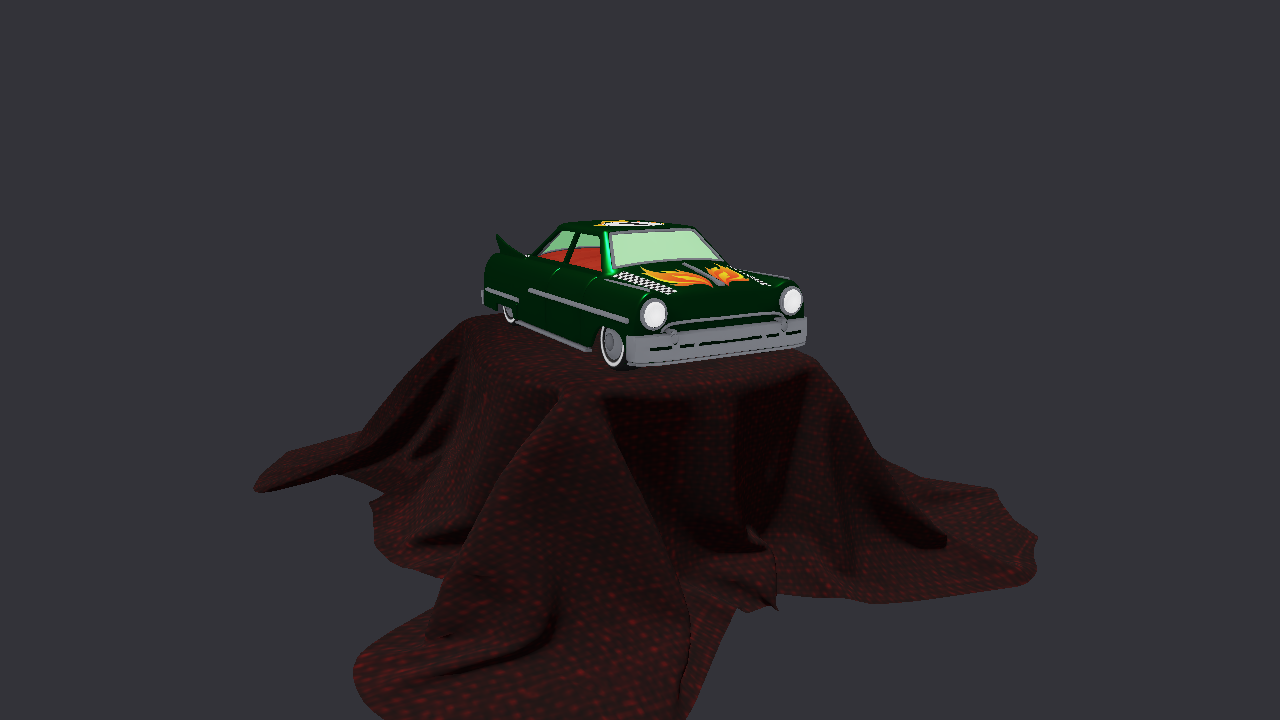
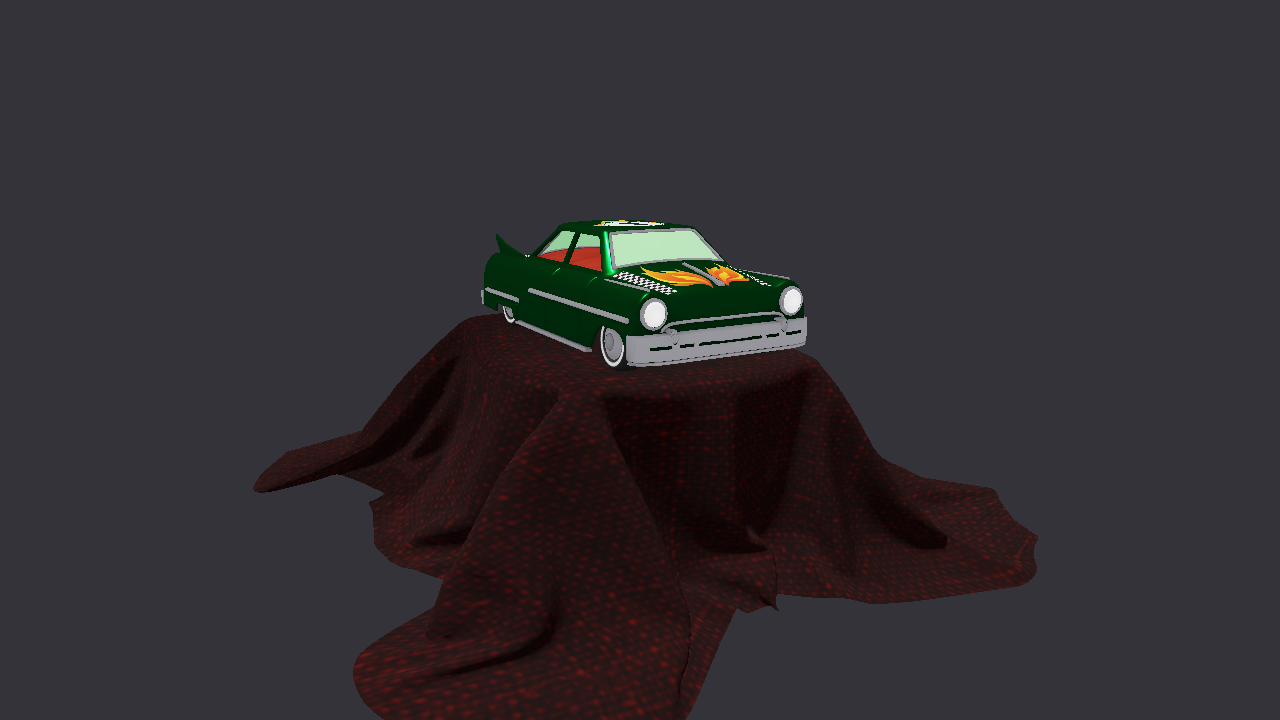
feat(render): M5d 场景环境光 + M5e 清漆层（clearcoat）
- schema：
  · `scn.Scene` 增加 `env_color/env_intensity`（默认值 = 引擎原硬编码值 → 老场景零回归）
  · `asset.PbrMaterial` 增加 `clearcoat/clearcoat_roughness`（与 KHR_materials_clearcoat 字段对齐）
  · ABI `mq_renderer_pbr_material` 表尾追加 clearcoat 两字段（92→100B，静态断言同步）
- runtime：环境光由场景驱动；材质读 clearcoat；draw uniform 128→144B
- gfx：draw BGL/uniform 扩到 144B；顺带修复 clearcoat 写入数组越界（du[32]→du[36] 漏改主循环）
- shader：Draw 增加 clearcoat；方向光逐灯叠加清漆高光（F0=0.04、独立 roughness）
- ToyCar 场景：暖灰环境光（0.33/0.33/0.36 ×2.0）+ 车漆 clearcoat=1.0/0.06，preview 更新
- 文档：AGENTS.md 环境光/清漆说明；plans/18 M5d/M5e
- 构建 0 错误；全量 CTest 81/81 通过

Changed region(s): [[0.4062, 0.3972, 0.6562, 0.5194], [0.4062, 0.3056, 0.5625, 0.3972], [0.375, 0.3972, 0.4688, 0.4278]]

diff --git a/modules/render/gfx/src/gfx.cpp b/modules/render/gfx/src/gfx.cpp
@@ -25,7 +25,7 @@ namespace maque::gfx {
 static_assert(sizeof(mq_renderer_caps) == 32, "mq_renderer_caps 应为 8×int32");
 static_assert(sizeof(mq_renderer_view3d) == 184, "mq_renderer_view3d 布局漂移（view/proj 各 64B + 后段）");
 static_assert(sizeof(mq_renderer_light) == 64, "mq_renderer_light 布局漂移");
-static_assert(sizeof(mq_renderer_pbr_material) == 92, "mq_renderer_pbr_material 布局漂移（5 贴图槽）");
+static_assert(sizeof(mq_renderer_pbr_material) == 100, "mq_renderer_pbr_material 布局漂移（5 贴图槽 + clearcoat）");
 static_assert(sizeof(mq_renderer_environment) == 48, "mq_renderer_environment 布局漂移");
 static_assert(sizeof(mq_renderer_post) == 8, "mq_renderer_post 布局漂移");
 static_assert(sizeof(mq_renderer_draw3d) == 96, "mq_renderer_draw3d 布局漂移（model 64B + sort_key u64）");
@@ -309,7 +309,7 @@ static void ensure_3d_pipelines(Device* dv, WGPUTextureFormat format) {
         {
             WGPUBindGroupLayoutEntry e[7] = {};
             e[0].binding = 0; e[0].visibility = WGPUShaderStage_Vertex | WGPUShaderStage_Fragment;
-            e[0].buffer.type = WGPUBufferBindingType_Uniform; e[0].buffer.minBindingSize = 128;
+            e[0].buffer.type = WGPUBufferBindingType_Uniform; e[0].buffer.minBindingSize = 144;
             e[1].binding = 1; e[1].visibility = WGPUShaderStage_Fragment;
             e[1].texture.sampleType = WGPUTextureSampleType_Float;
             e[1].texture.viewDimension = WGPUTextureViewDimension_2D;
@@ -1279,7 +1279,7 @@ static int32_t render_3d_only(Device* dv, WGPUTexture target, WGPUTextureFormat 
                 if (d.mesh < 0 || d.mesh >= (int)dv->meshes.size()) continue;
                 MeshGpu* m = dv->meshes[(size_t)d.mesh];
                 if (!m || !m->vbo || !m->ibo || m->index_count == 0) continue;
-                float du[32] = {};
+                float du[36] = {};
                 std::memcpy(du, d.model, sizeof d.model);
                 WGPUBufferDescriptor dbd = WGPU_BUFFER_DESCRIPTOR_INIT;
                 dbd.usage = WGPUBufferUsage_Uniform | WGPUBufferUsage_CopyDst;
@@ -1358,7 +1358,7 @@ static int32_t render_3d_only(Device* dv, WGPUTexture target, WGPUTextureFormat 
             if (d.mesh < 0 || d.mesh >= (int)dv->meshes.size()) continue;
             MeshGpu* m = dv->meshes[(size_t)d.mesh];
             if (!m || !m->vbo || !m->ibo || m->index_count == 0) continue;
-            float du[32] = {};
+            float du[36] = {};
             std::memcpy(du, d.model, sizeof d.model);              /* 0..15：模型矩阵 */
             const mq_renderer_pbr_material* mat =
                 (f->materials && d.material >= 0 && (uint32_t)d.material < f->material_count)
@@ -1374,10 +1374,13 @@ static int32_t render_3d_only(Device* dv, WGPUTexture target, WGPUTextureFormat 
                 du[28] = mat->alpha_cutoff;
                 du[29] = (float)mat->alpha_mode;
                 du[30] = (float)mat->flags;
+                du[32] = mat->clearcoat;
+                du[33] = mat->clearcoat_roughness;
             } else {
                 du[16] = du[17] = du[18] = du[19] = 1.0F;
                 du[25] = 0.6F; du[26] = 1.0F; du[27] = 1.0F;
                 du[28] = 0.5F; du[29] = 0.0F; du[30] = 0.0F;
+                du[32] = 0.0F; du[33] = 0.03F;
             }
             WGPUBufferDescriptor dbd = WGPU_BUFFER_DESCRIPTOR_INIT;
             dbd.usage = WGPUBufferUsage_Uniform | WGPUBufferUsage_CopyDst;

diff --git a/modules/runtime/src/runtime.cpp b/modules/runtime/src/runtime.cpp
@@ -1173,6 +1173,8 @@ void Engine::extract_3d(int32_t tw, int32_t th,
                 mat.alpha_cutoff = read_num(dmat, base, "alpha_cutoff", 0.5F);
                 mat.alpha_mode = (int32_t)read_num(dmat, base, "alpha_mode", 0.0F);
                 mat.flags = read_num(dmat, base, "double_sided", 0.0F) >= 0.5F ? 1 : 0;
+                mat.clearcoat = read_num(dmat, base, "clearcoat", 0.0F);
+                mat.clearcoat_roughness = read_num(dmat, base, "clearcoat_roughness", 0.03F);
                 /* M4：PBR 贴图槽（albedo / metallic-roughness / occlusion）；normal 在 M5（需要切线空间） */
                 if (const std::string* texref = read_str(dmat, base, "base_color_texture")) {
                     if (!texref->empty()) {
@@ -1571,9 +1573,17 @@ void Engine::step_frame() {
         for (int i = 0; i < 4; ++i) fr.bg[i] = bg[i];
         fr.env.sky_mode = 1;
         /* 影棚环境光（中性偏冷、比早先 0.18/0.20/0.24 ×1.0 更亮，作为环境漫反射/镜面近似） */
-        fr.env.env_color[0] = 0.27F; fr.env.env_color[1] = 0.28F;
-        fr.env.env_color[2] = 0.31F; fr.env.env_color[3] = 1.0F;
-        fr.env.intensity = 1.6F;
+        /* 环境光由场景控制（scn.Scene.env_color / env_intensity；默认 = 引擎此前硬编码值） */
+        if (scene) {
+            fr.env.env_color[0] = scene->desc.env_color.r;
+            fr.env.env_color[1] = scene->desc.env_color.g;
+            fr.env.env_color[2] = scene->desc.env_color.b;
+            fr.env.intensity = scene->desc.env_intensity;
+        } else {
+            fr.env.env_color[0] = 0.27F; fr.env.env_color[1] = 0.28F;
+            fr.env.env_color[2] = 0.31F; fr.env.intensity = 1.6F;
+        }
+        fr.env.env_color[3] = 1.0F;
         const bool direct3d = direct_present && !need_pixels;
         fr.out = direct3d ? nullptr : pixels.data();
         fr.out_size = (uint32_t)pixels.size();

diff --git a/AGENTS.md b/AGENTS.md
@@ -131,6 +131,10 @@ tools\win\build.cmd -Sanitize address -RunTests
   （按路径缓存，失败缓存 -1）；为空回退内建 cube。样例 `scenes/pbr/imported.scn`（含地面）
   与导入资产 `scenes/pbr/assets/cube.mesh.json`；e2e ④ 校验「importer 输出 = 已入库资产」逐字节一致（漂移）
   + 断言网格加载成功（`mesh=-1` 视为失败）。
+  **环境光（M5d）**：`scn.Scene.env_color/env_intensity` 按场景配置影棚环境（默认值 = 引擎原硬编码，老场景零回归）；
+  ToyCar 用暖灰环境 + 车漆 clearcoat 出镜面感。
+  **清漆层（M5e）**：`asset.PbrMaterial.clearcoat/clearcoat_roughness`（KHR_materials_clearcoat 对齐）——
+  独立 F0=0.04 的窄高光（roughness 独立于底材），方向光逐灯叠加。
   **阴影（M5c）**：方向光 **1024² shadow map + 3×3 PCF**（`MAQUE_SHADOW=0` 可关闭用于对照）；
   shadow map 仅作深度附件、采样用独立 view（camera uniform 720B：+light_vp/shadow_params）。
   样例 `scenes/pbr/shadows.scn`，e2e ⑨ 用开/关同场景像素差断言。

diff --git a/plans/18-pbr-3d.md b/plans/18-pbr-3d.md
@@ -386,3 +386,7 @@ per view:
 - **M5c ✅ 方向光阴影**：1024² Depth32Float shadow map；相机 uniform 640→720B（+light_vp/shadow_params）；
   阴影 pass 用同 shader 的 `vs_shadow`（group0 复用相机 BGL，纹理槽绑 1×1 深度占位避免同 pass 读写冲突）；
   shader 3×3 PCF（comparison sampler，`MAQUE_SHADOW` 开关）；`scenes/pbr/shadows.scn` + e2e ⑨（开/关像素差）。
+
+- **M5d ✅ 环境光按场景配置**：`scn.Scene.env_color/env_intensity` → frame3d env；默认值等于原硬编码（零回归）；
+  ToyCar 暖灰影棚环境。**M5e ✅ clearcoat**：`asset.PbrMaterial.clearcoat/clearcoat_roughness`
+  （同 KHR_materials_clearcoat 字段名），draw uniform 144B，shader 独立 F0=0.04 清漆窄高光。
